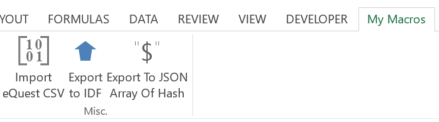
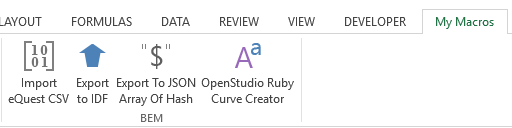
Updated documentation accordingly

diff --git a/README.md b/README.md
@@ -3,8 +3,8 @@
 * Some shortcuts
 * A macro to export an Excel table to an IDF format for import into IDF Editor or to paste in the idf file directly
 * A macro to export an excel table to a JSON array of hash: useful when working with ruby and the OpenStudio bindings especially
+* A macro to generate a ruby script to create curves using the OpenStudio ruby bindings, using IDF objects as input
 
-This is related to my answer on Unmet Hours on the post [EnergyPlus IDF editor copy paste](https://unmethours.com/question/17809/energyplus-idf-editor-copy-paste)
 
 # Instructions
 
@@ -28,8 +28,7 @@ On the right side, at the top, "Choose commands from" and select Macro. Find "Ex
 Click on "Rename". "Export_To_IDF" can be called "Export to IDF" for example.
 (You can also choose a pretty icon like an up arrow for example...)
 
-6. Repeat 5. for "Export_To_JSON_Array_Of_Hash"
-
+6. Repeat 5. for "Export_To_JSON_Array_Of_Hash", etc
 
 
 ## Excel to IDF
@@ -37,6 +36,8 @@ Click on "Rename". "Export_To_IDF" can be called "Export to IDF" for example.
 ### Usage 
 
 For exporting from IDF to IDF Editor or idf file, I wrote a macro that will read in an excel table and export that to an IDF compatible object so that you can paste it in the IDF editor or in your .idf text file itself.
+
+This is related to my answer on Unmet Hours on the post [EnergyPlus IDF editor copy paste](https://unmethours.com/question/17809/energyplus-idf-editor-copy-paste). I wrote the macro more than 2 years ago for the same purpose, but only recently realized it could be useful to others.
 
 I've personally added this macro to an Excel Add-In and added a button on a separate tab for easy access:
 
@@ -73,9 +74,6 @@ And Here's the output it produced for the example table:
         (3,3);
 
 
-
-
-
 ## Export table to JSON array of Hash
 --------------------------------------
 
@@ -101,6 +99,38 @@ And here's the output:
     {:zone => 'Zone 6',:supplyAirFlowrate => 6.072,:cooling_cop => 5.75,:fan_pressure_rise => 896.4,:total_fan_eff => 0.474,},
     ]
 
+## OpenStudio Ruby Curve Creator.
+
+From a table taken from the IDF editor, it will generate Ruby code to generate the curves.
+
+I added a spreadsheet that includes instructions and that allows you to generate all types of curves in one go. But I also added it in the add-in, because sometimes you don't want to spin a workbook to do a task.
+
+Here's an example of a table with two Quadratic curves.
+
+![OpenStudio Ruby Curve Creator](/doc/OpenStudioRubyCurveCreator.png)
+
+And here's the code it generates:
+
+```
+curve = OpenStudio::Model::CurveQuadratic.new(model)
+curve.setName('CurveQuad1')
+curve.setCoefficient1Constant(0)
+curve.setCoefficient2x(1)
+curve.setCoefficient3xPOW2(0)
+curve.setMinimumValueofx(0.03)
+curve.setMaximumValueofx(1)
+
+curve = OpenStudio::Model::CurveQuadratic.new(model)
+curve.setName('CurveQuad2')
+curve.setCoefficient1Constant(0.7516)
+curve.setCoefficient2x(0.00414)
+curve.setCoefficient3xPOW2(0)
+curve.setMinimumValueofx(29.44)
+curve.setMaximumValueofx(85)
+curve.setInputUnitTypeforX('Temperature')
+curve.setOutputUnitType('Dimensionless')
+```
+
 
 ## Shortcuts
 
@@ -120,6 +150,6 @@ In "ThisWorkbook" you have shortcuts that I use on a daily basis. Feel free to a
 
 ### Contact and Contribution
 
-**Happy modeling and don't hesitate to reach out to me for any bugs or comments.**
+**Happy modeling and don't hesitate to reach out to me for any bugs or comments, using the "issues" tab preferably.**
 
 I'll also welcome pull requests.
